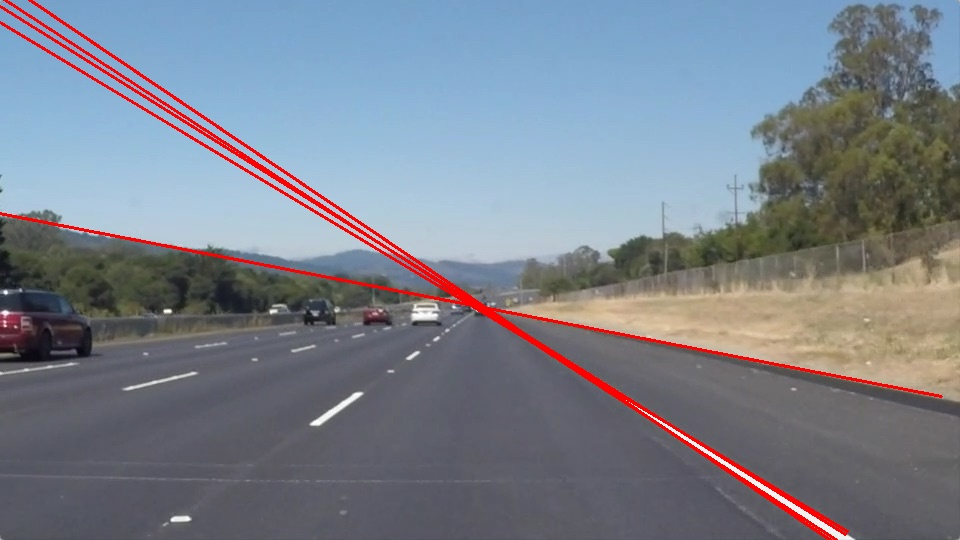
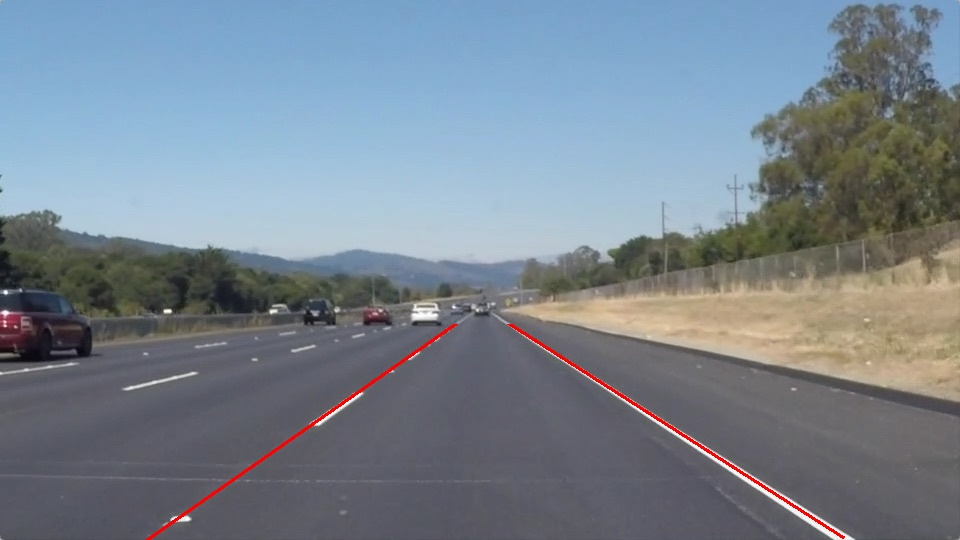
jay is so strong

diff --git a/hough_transform.py b/hough_transform.py
@@ -2,12 +2,32 @@ import cv2
 import os
 import numpy as np
 
-if __name__ == '__main__':
-    img = cv2.imread(os.path.join('datasets', 'solidWhiteRight.jpg'))
-    grayscale_img = cv2.cvtColor(img, cv2.COLOR_BGR2GRAY)
-    edges = cv2.Canny(grayscale_img, 100, 200)
-    # arguements: edge image, rho and theta accuracy, threshold to be seen as a line
-    lines = cv2.HoughLines(edges, 1, np.pi / 180, 150)
+def interest_region(edges):
+    h, w = edges.shape
+    roi =  np.array([(0, h), (w // 2, h // 2), (w, h)], np.int32)
+    dst = np.zeros((edges.shape), np.uint8)
+    cv2.fillPoly(dst, [roi], 255)
+    return cv2.bitwise_and(edges, dst)
+
+# select the mean parameters of a right line and a left line
+def mean_left_and_right(lines):
+    left_line = []
+    right_line = []
+    for line in lines:
+        rho = line[0][0]
+        theta = line[0][1]
+        #print(line)
+        #draw_line(line[0],img)
+        if theta < np.pi/2.0:
+            right_line.append((rho,theta))
+        else:
+            left_line.append((rho,theta))
+
+    line_r = np.mean(right_line, axis=0)
+    line_l = np.mean(left_line, axis=0)
+    return [[line_r], [line_l]]
+
+def plot_lines(img, lines):
     for line in lines:
         rho = line[0][0]
         theta = line[0][1]
@@ -15,11 +35,22 @@ if __name__ == '__main__':
         b = np.sin(theta)
         x0 = a * rho
         y0 = b * rho
-        x1 = int(x0 + 1000 * (-b))
-        y1 = int(y0 + 1000 * a)
-        x2 = int(x0 - 1000 * (-b))
-        y2 = int(y0 - 1000 * a)
+        x1 = int(x0 + 2000 * (-b))
+        y1 = int(y0 + 2000 * a)
+        x2 = int(x0 - 2000 * (-b))
+        y2 = int(y0 - 2000 * a)
         cv2.line(img, (x1, y1), (x2, y2), (0,0,255), 2)
+    return img
+
+if __name__ == '__main__':
+    img = cv2.imread(os.path.join('datasets', 'solidWhiteRight.jpg'))
+    grayscale_img = cv2.cvtColor(img, cv2.COLOR_BGR2GRAY)
+    edges = cv2.Canny(grayscale_img, 100, 200)
+    roi_edges = interest_region(edges)
+    # arguements: edge image, rho and theta accuracy, threshold to be seen as a line
+    lines = cv2.HoughLines(roi_edges, 1, np.pi / 180, 70)
+    lines = mean_left_and_right(lines)
+    img = plot_lines(img, lines)
     
     cv2.imshow('img', img)
     cv2.waitKey(0)

diff --git a/test_2.py b/test_2.py
@@ -1,0 +1,73 @@
+import cv2
+import os
+import numpy as np
+import copy
+
+def region_of_interest(img, vertices):
+    mask = np.zeros_like(img)   
+    cv2.fillPoly(mask, vertices, [255,255,255])
+    masked_image = cv2.bitwise_and(img, mask)
+    return masked_image,mask
+
+def get_vertices(image):
+    rows, cols = image.shape[:2]
+    bottom_left  = [cols*0.15, rows]
+    top_left     = [cols*0.45, rows*0.6]
+    bottom_right = [cols*0.95, rows]
+    top_right    = [cols*0.55, rows*0.6] 
+    
+    ver = np.array([[bottom_left, top_left, top_right, bottom_right]], dtype=np.int32)
+    return ver
+
+def draw_line(line,img):
+    #print('line',line)
+    rho = line[0]
+    theta = line[1]
+    a = np.cos(theta)
+    b = np.sin(theta)
+    x0 = a * rho
+    y0 = b * rho
+    x1 = int(x0 + 1000 * (-b))
+    y1 = int(y0 + 1000 * a)
+    x2 = int(x0 - 1000 * (-b))
+    y2 = int(y0 - 1000 * a)
+    cv2.line(img, (x1, y1), (x2, y2), (0,0,255), 2)
+    return img
+
+if __name__ == '__main__':
+    img = cv2.imread(os.path.join('datasets', 'solidWhiteRight.jpg'))
+    img_copy = copy.deepcopy(img)
+    grayscale_img = cv2.cvtColor(img, cv2.COLOR_BGR2GRAY)
+    edges = cv2.Canny(grayscale_img, 100, 200)
+    edges,mask = region_of_interest(edges,get_vertices(edges))
+    # arguements: edge image, rho and theta accuracy, threshold to be seen as a line
+    lines = cv2.HoughLines(edges, 1, np.pi / 180,threshold = 70)
+
+    right_line = []
+    left_line = []
+    for line in lines:
+        rho = line[0][0]
+        theta = line[0][1]
+        #print(line)
+        #draw_line(line[0],img)
+        if theta < np.pi/2.0:
+            right_line.append((rho,theta))
+        else:
+            left_line.append((rho,theta))
+
+    line_r = np.mean(right_line, axis=0)
+    line_l = np.mean(left_line, axis=0)
+
+    img = draw_line(line_r,img)
+    img = draw_line(line_l,img)
+
+    for i in range(img.shape[0]):
+        for j in range(img.shape[1]):
+            if mask[i][j].all()==0:
+                img[i][j] = img_copy[i][j]
+
+    
+    cv2.imshow('img', img)
+    cv2.waitKey(0)
+    cv2.destroyAllWindows()
+    cv2.imwrite(os.path.join('results', 'solidWhiteRight_result.jpg'), img)
